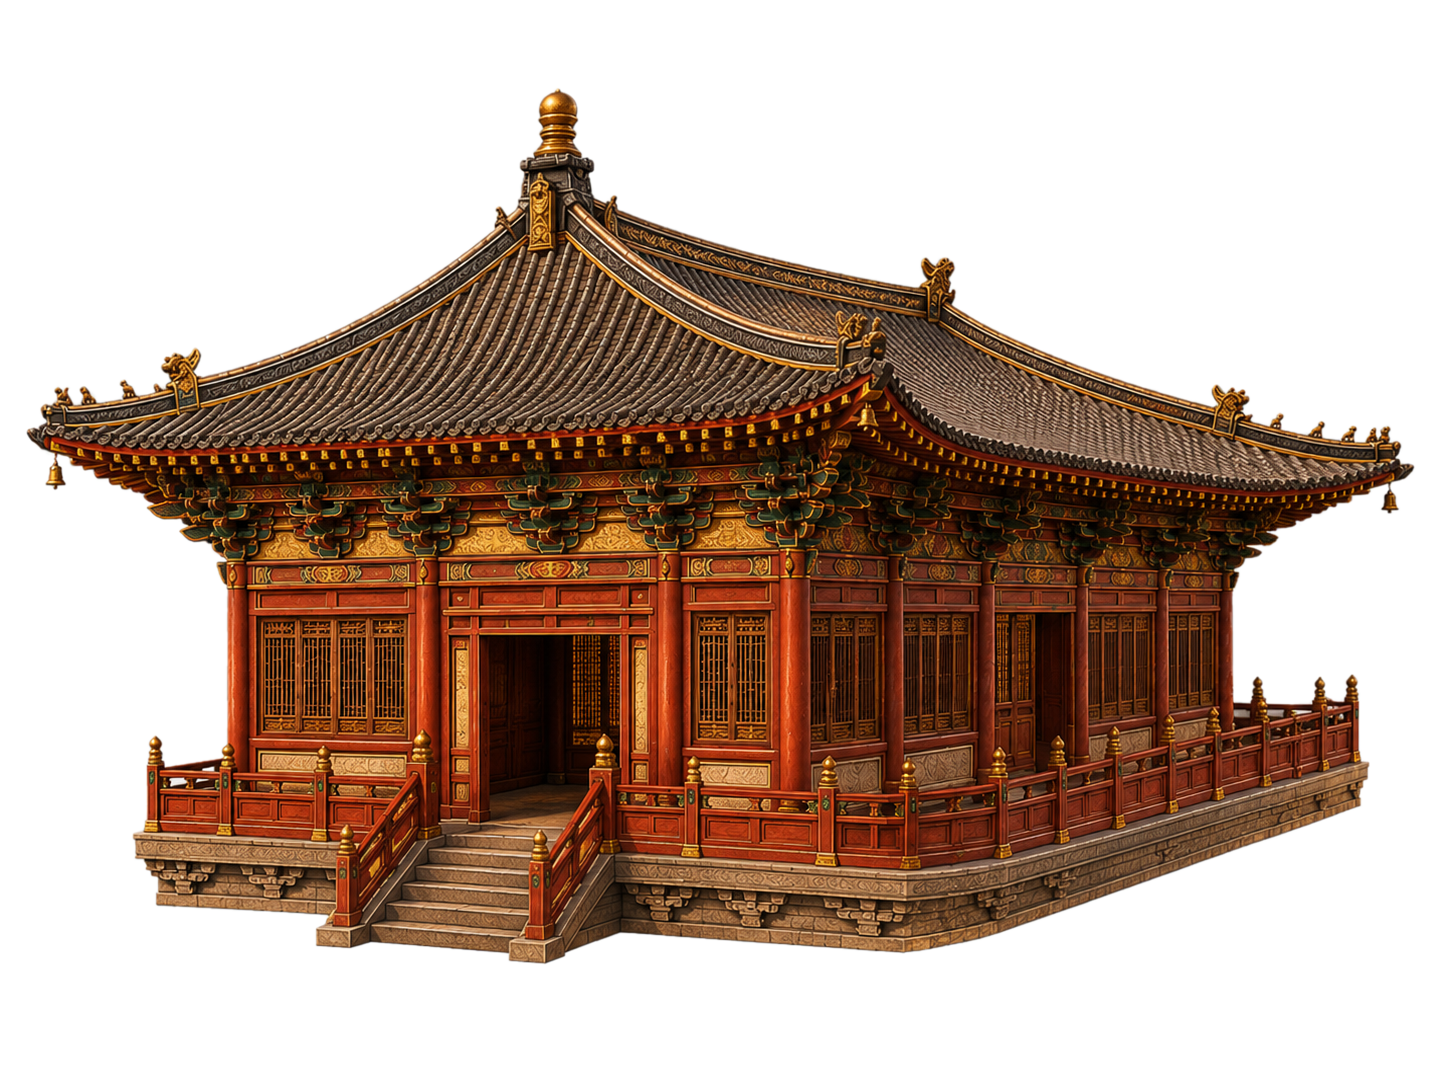
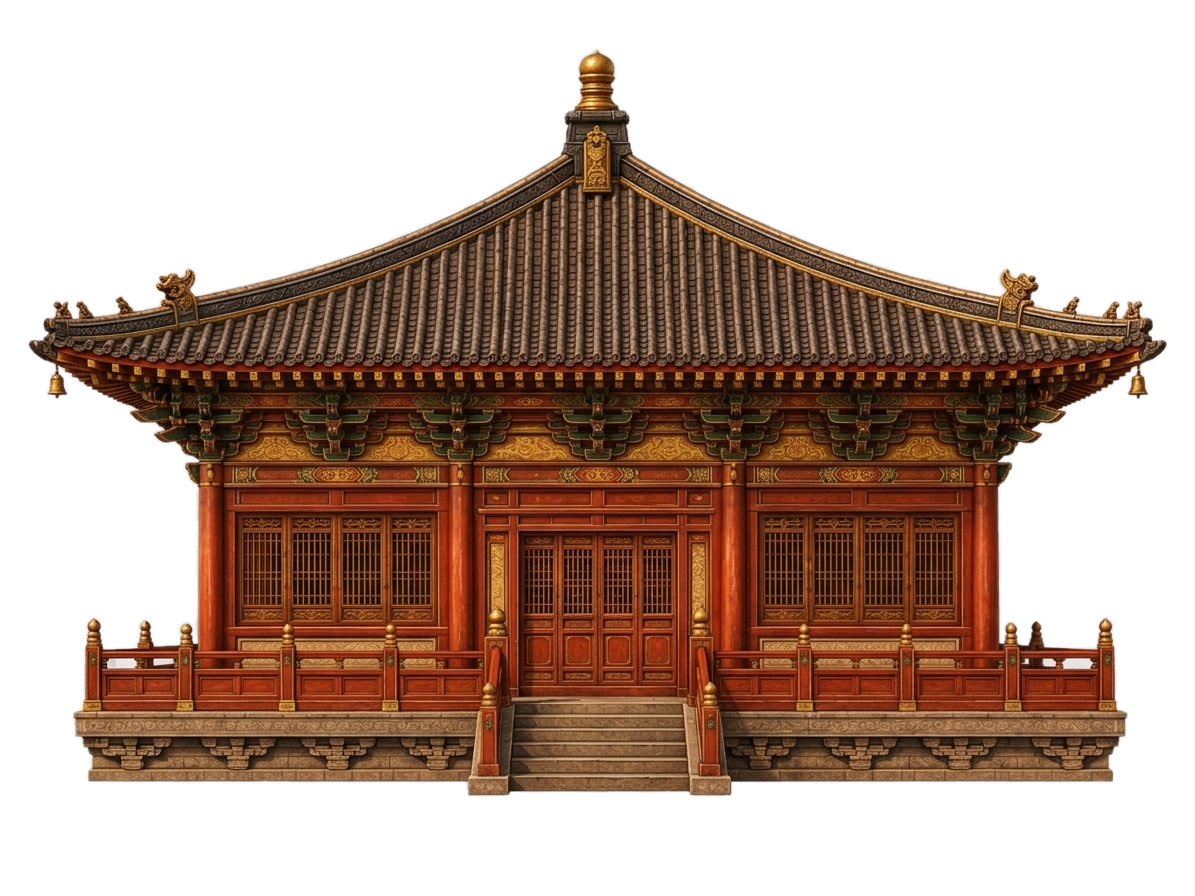
城楼换图：正视角新图替换 3D 斜视角旧图
- chenglou.jpeg 新图（正视角）：两次洪水填充去除烘焙棋盘格背景（中性灰亮色阈值 + JPEG 边缘暗带二次扩散）+ 1px 羽化
- 基线重算：宽 470px（高 352px）、底缘外扩 30px，石基底与桥/船水线同高（内容底 319.5px）；宝顶距视口顶约 24px 完整可见
- selector-tower.png 按钮小图标从新图重裁；删除旧 chenglou.png

diff --git a/css/style.css b/css/style.css
@@ -320,15 +320,15 @@ body.panel-open .nav-btn--right {
 }
 
 /* 城楼：与桥底对齐（共用 211px 基线）。
-   chenglou-web.png 内容底（石基底）≈ 图高 89.1%；
-   宽 500px → 图高 375px，底缘外扩 32px，使石基底与水线同高（≈202.5px），
-   屋脊顶高出场景顶约 102px（13vh 场景顶之下仍完整可见） */
+   chenglou-web.png 内容底（石基底）≈ 图高 89.1%、内容顶（宝顶）≈ 图高 5.2%；
+   宽 470px → 图高 352px，底缘外扩 30px，使石基底与水线同高（≈202.5px），
+   宝顶距视口顶约 24px（900px 屏，完整可见） */
 .bridge .bridge__tower {
   position: absolute;
   left: 50%;
-  bottom: -32px;
+  bottom: -30px;
   transform: translateX(-50%);
-  width: 500px;
+  width: 470px;
   height: auto;
 }
 
